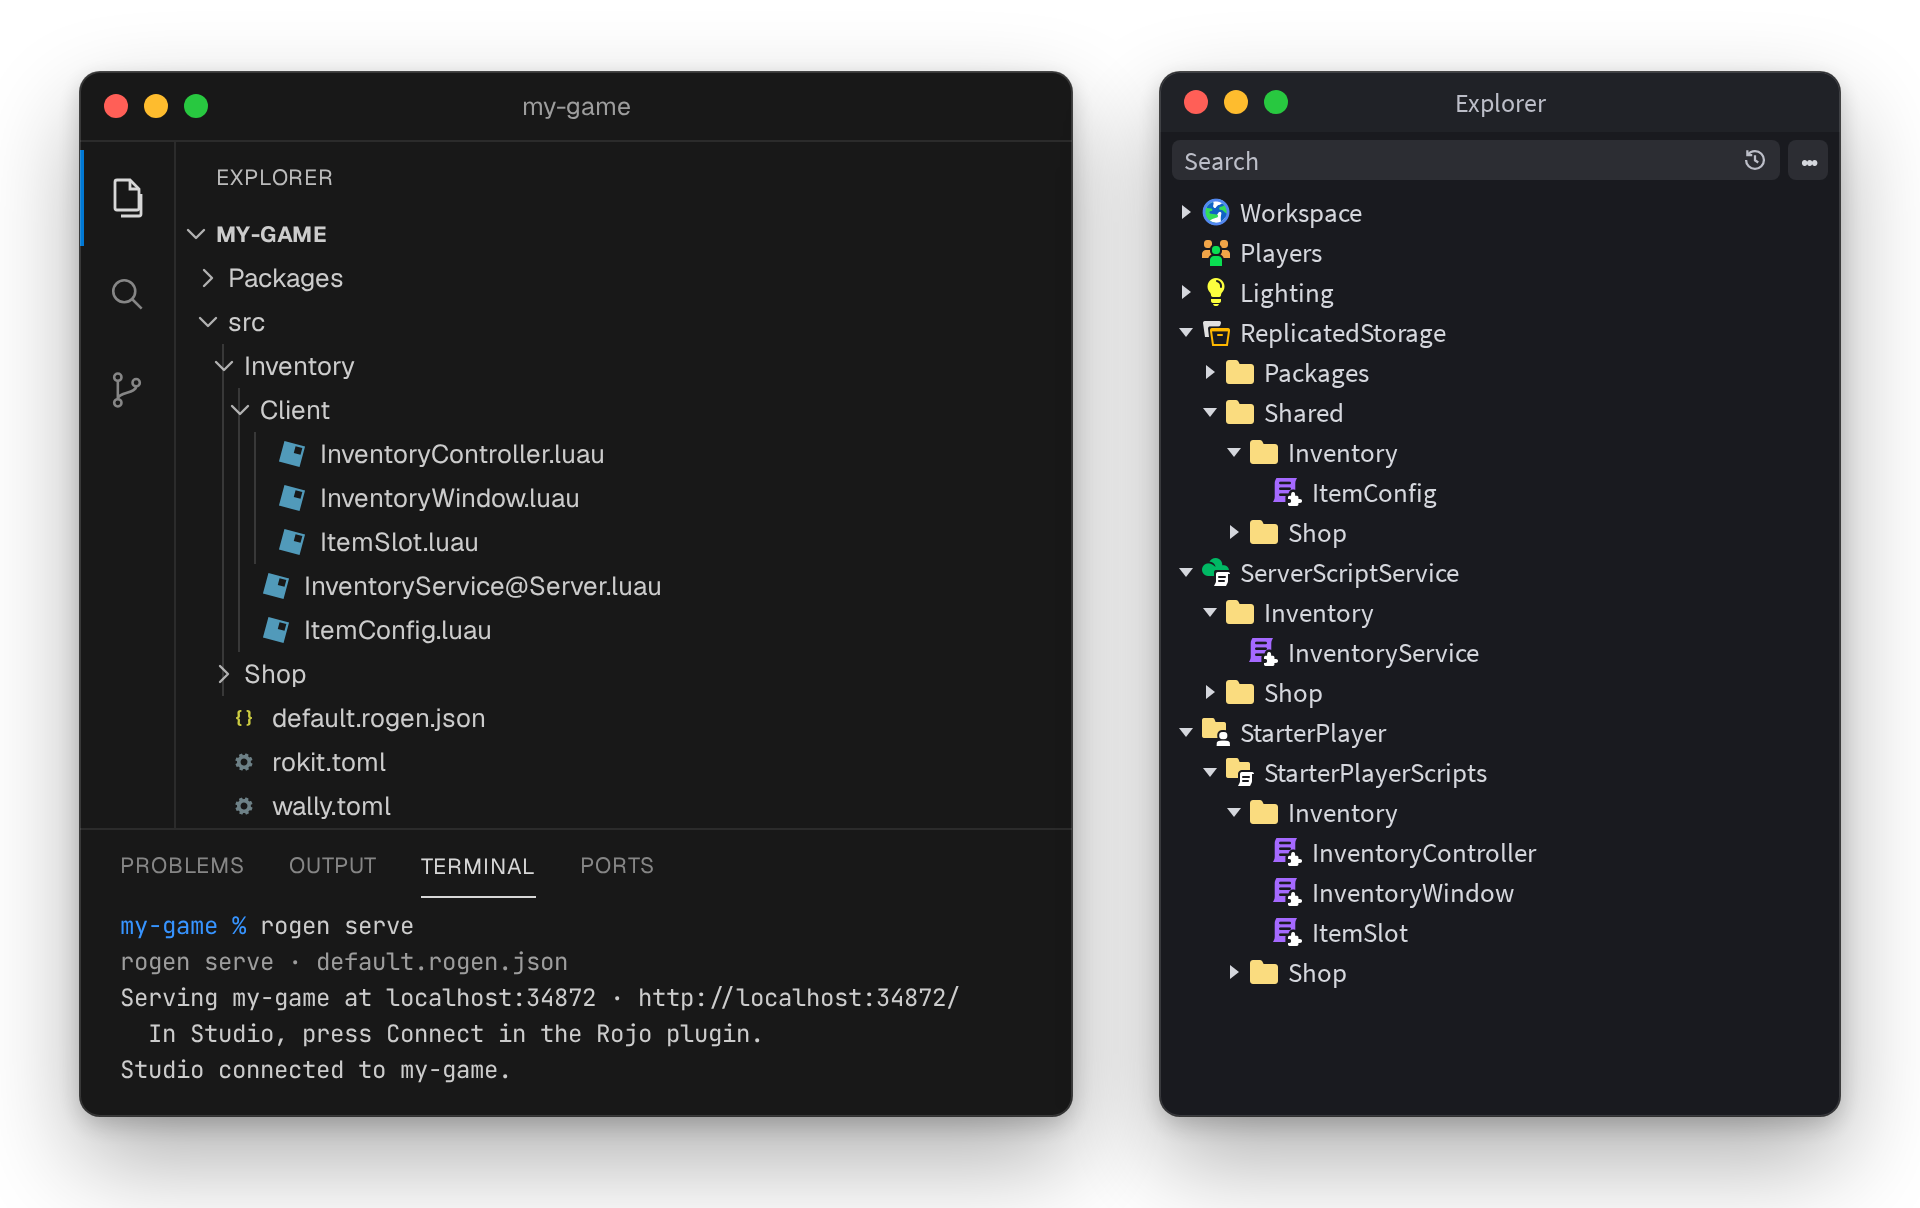
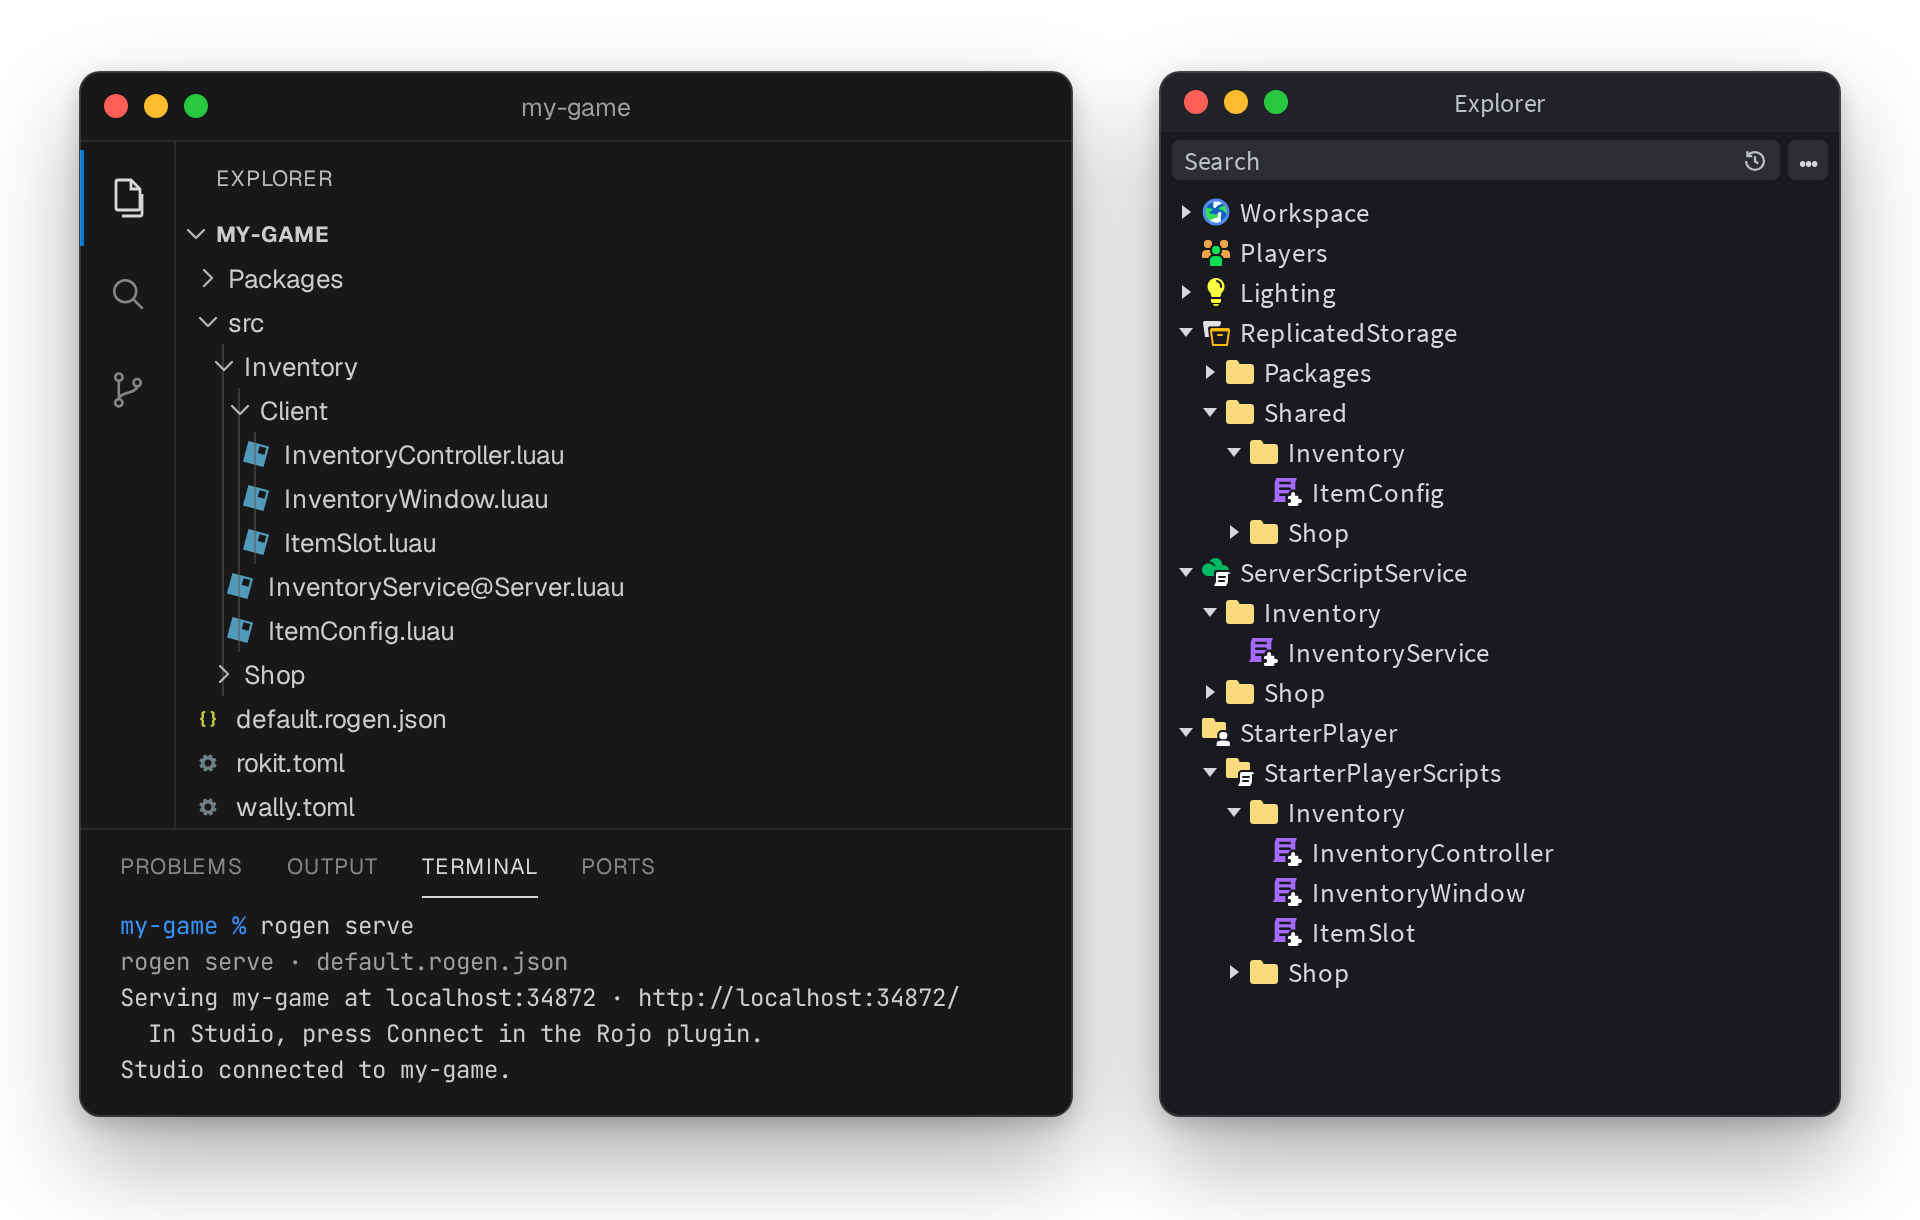
Put files at their folder's level, draw the toggles as macOS segmented controls, and say what the hero does in a second sentence

diff --git a/docs/app/(home)/home.css b/docs/app/(home)/home.css
@@ -25,6 +25,11 @@
 	--agent-3: #10262b;
 	--field: #dcd6ca;
 	--field-dot: rgba(16, 38, 43, 0.07);
+	/* a macOS segmented control: a sunken track, the chosen segment raised on it */
+	--seg: rgba(16, 38, 43, 0.075);
+	--seg-on: #fff;
+	--seg-shadow:
+		0 1px 2px rgba(16, 38, 43, 0.14), 0 0 0 0.5px rgba(16, 38, 43, 0.08);
 	--sans: var(--font-sora), system-ui, sans-serif;
 	--mono: var(--font-jetbrains-mono), ui-monospace, monospace;
 	/* objects arrive on a spring, text and lines ease out, hover snaps */
@@ -91,6 +96,10 @@
 	--agent-3: #f0f6f2;
 	--field: #133238;
 	--field-dot: rgba(240, 246, 242, 0.05);
+	--seg: rgba(240, 246, 242, 0.07);
+	--seg-on: #2a3f43;
+	--seg-shadow:
+		0 1px 2px rgba(0, 0, 0, 0.35), inset 0 0.5px rgba(240, 246, 242, 0.12);
 }
 body:has(.home) {
 	background: #eeebe4;
@@ -364,29 +373,30 @@ html:not([data-lang="ts"]) .home [data-only="ts"] {
 /* the active language comes from html[data-lang], so it is right before the page runs */
 .home .lang-seg {
 	display: inline-flex;
-	padding: 3px;
-	border-radius: 6px;
-	background: var(--deep);
-	box-shadow: inset 0 0 0 1px var(--line);
+	padding: 2px;
+	border-radius: 8px;
+	background: var(--seg);
 }
 .home .lang-seg button {
 	appearance: none;
 	border: 0;
 	background: none;
 	height: 28px;
-	padding: 0 12px;
-	border-radius: 4px;
-	font: 500 13px/1 var(--mono);
+	padding: 0 14px;
+	border-radius: 6px;
+	font: 500 13px/1 var(--sans);
 	color: var(--ink-2);
 	cursor: pointer;
 	transition:
 		color 0.25s var(--ease-out),
-		background-color 0.25s var(--ease-out);
+		background-color 0.25s var(--ease-out),
+		box-shadow 0.25s var(--ease-out);
 }
 html:not([data-lang="ts"]) .home .lang-seg [data-v="luau"],
 html[data-lang="ts"] .home .lang-seg [data-v="ts"] {
-	background: var(--ink);
-	color: var(--bg);
+	background: var(--seg-on);
+	box-shadow: var(--seg-shadow);
+	color: var(--ink);
 }
 @media (hover: hover) and (pointer: fine) {
 	.home .lang-seg button:hover {
@@ -1460,18 +1470,18 @@ html[data-lang="ts"] .home .lang-seg [data-v="ts"] {
 .home .toggle {
 	position: relative;
 	display: inline-flex;
-	background: var(--deep);
-	border-radius: 6px;
-	padding: 4px;
-	box-shadow: inset 0 0 0 1px var(--line);
+	background: var(--seg);
+	border-radius: 9px;
+	padding: 3px;
 }
 .home .toggle .knob {
 	position: absolute;
-	top: 4px;
+	top: 3px;
 	left: 0;
-	height: calc(100% - 8px);
-	background: var(--ink);
-	border-radius: 4px;
+	height: calc(100% - 6px);
+	background: var(--seg-on);
+	box-shadow: var(--seg-shadow);
+	border-radius: 7px;
 	transition:
 		transform 0.55s var(--spring),
 		width 0.55s var(--spring);
@@ -1486,19 +1496,20 @@ html[data-lang="ts"] .home .lang-seg [data-v="ts"] {
 	background: none;
 	border: 0;
 	cursor: pointer;
-	font: 600 14px/1 var(--sans);
+	font: 500 14px/1 var(--sans);
 	color: var(--ink-2);
-	padding: 0 18px;
-	height: 44px;
+	padding: 0 20px;
+	height: 36px;
 	white-space: nowrap;
-	border-radius: 4px;
+	border-radius: 7px;
 	transition: color 0.3s var(--ease-out);
 }
 .home .toggle button[aria-selected="true"] {
-	color: var(--bg);
+	color: var(--ink);
 }
 .home .toggle:not([data-ready]) button[aria-selected="true"] {
-	background: var(--ink);
+	background: var(--seg-on);
+	box-shadow: var(--seg-shadow);
 }
 .home .toggle button:active {
 	transform: scale(0.98);

diff --git a/docs/components/home/features.tsx b/docs/components/home/features.tsx
@@ -240,15 +240,13 @@ function ExplorerAndTerminal({
 											}
 										>
 											<IndentGuides depth={depth} />
-											{isFolder ? (
+											{isFolder && (
 												<Chevron
 													open={hasChildren(
 														depths,
 														i
 													)}
 												/>
-											) : (
-												<span className="ide-chev" />
 											)}
 											{!isFolder && (
 												<FileIcon name={name} />
@@ -317,12 +315,10 @@ export function Features() {
 										style={depth(d)}
 									>
 										<IndentGuides depth={d} />
-										{luau.endsWith("/") ? (
+										{luau.endsWith("/") && (
 											<Chevron
 												open={hasChildren(depths, i)}
 											/>
-										) : (
-											<span className="ide-chev" />
 										)}
 										<L
 											luau={

diff --git a/docs/components/home/story.ts b/docs/components/home/story.ts
@@ -385,7 +385,7 @@ const studioClass = (icon: Icon, name: string) =>
 const diskRow = (n: string, depth: number, cls = "") => {
 	const folder = n.endsWith("/");
 	const name = n.replace(/\/$/, "");
-	return `<li${cls ? ` class="${cls}"` : ""} style="--d:${depth}">${folder ? chev(false) : `<span class="ide-chev"></span>${fileIcon(name)}`}<span class="nm">${cls === "file" ? sfx(name) : name}</span></li>`;
+	return `<li${cls ? ` class="${cls}"` : ""} style="--d:${depth}">${folder ? chev(false) : fileIcon(name)}<span class="nm">${cls === "file" ? sfx(name) : name}</span></li>`;
 };
 
 const diskHTML = () =>

diff --git a/docs/components/home/hero-demo.tsx b/docs/components/home/hero-demo.tsx
@@ -305,15 +305,13 @@ export function HeroDemo() {
 													<IndentGuides
 														depth={depth}
 													/>
-													{folder ? (
+													{folder && (
 														<Chevron
 															open={hasChildren(
 																rows,
 																i
 															)}
 														/>
-													) : (
-														<span className="ide-chev" />
 													)}
 													{!folder && (
 														<FileIcon name={name} />

diff --git a/docs/components/home/route-views.tsx b/docs/components/home/route-views.tsx
@@ -87,11 +87,7 @@ function DiskRows({ rows }: { rows: Row[] }) {
 				}
 			>
 				<IndentGuides depth={depth} />
-				{folder ? (
-					<Chevron open={hasChildren(depths, i)} />
-				) : (
-					<span className="ide-chev" />
-				)}
+				{folder && <Chevron open={hasChildren(depths, i)} />}
 				{!folder && <FileIcon name={name} />}
 				{folder && colour ? (
 					<span className={`nm c-${colour}`}>{bare}</span>

diff --git a/docs/components/route-figure.tsx b/docs/components/route-figure.tsx
@@ -82,10 +82,8 @@ export function RouteFigure({
 								style={{ "--d": depth } as CSSProperties}
 							>
 								<IndentGuides depth={depth} />
-								{folder ? (
+								{folder && (
 									<Chevron open={hasChildren(diskRows, i)} />
-								) : (
-									<span className="ide-chev" />
 								)}
 								{!folder && <FileIcon name={name} />}
 								<DiskName name={name.replace(/\/$/, "")} />

diff --git a/docs/components/home/hero.tsx b/docs/components/home/hero.tsx
@@ -14,7 +14,9 @@ export function Hero() {
 						</h1>
 						<p className="lede in-3">
 							Rogen generates the Rojo project file from your file
-							system.
+							system. Keep a feature&apos;s server and client code
+							together, and Rogen sends each file to the right
+							place in Studio.
 						</p>
 					</div>
 					<div className="hero-copy">
